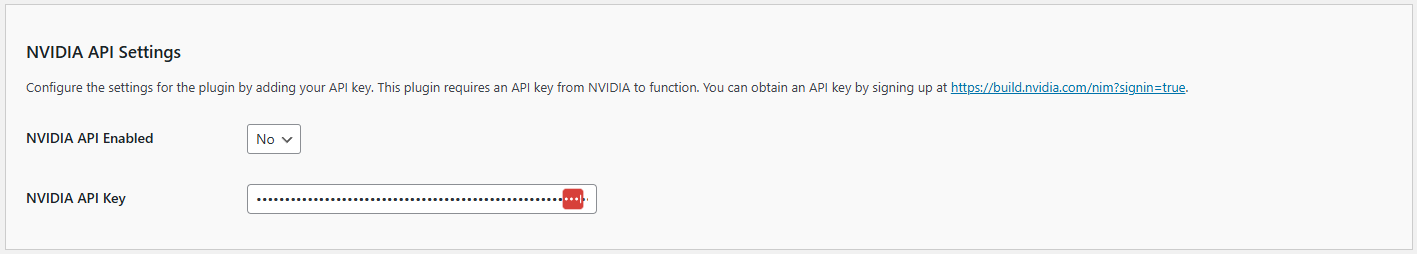
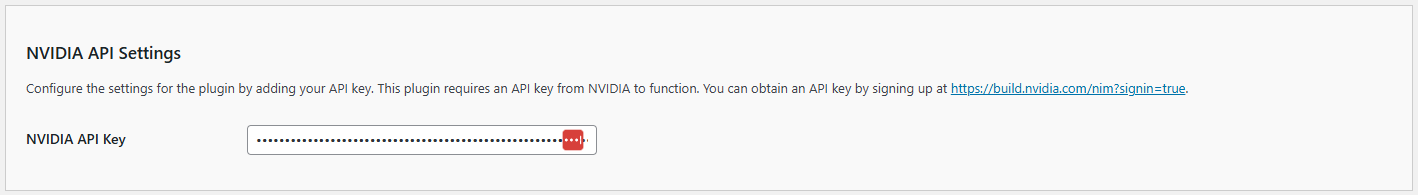
V 2.1.8 - Initial coding for NVIDIA AI options

diff --git a/includes/settings/chatbot-settings-api-nvidia.php b/includes/settings/chatbot-settings-api-nvidia.php
@@ -181,13 +181,13 @@ function chatbot_nvidia_api_settings_init() {
         'chatbot_nvidia_api_model_general'
     );
 
-    add_settings_field(
-        'chatbot_nvidia_api_enabled',
-        'NVIDIA API Enabled',
-        'chatbot_nvidia_api_enabled_callback',
-        'chatbot_nvidia_api_model_general',
-        'chatbot_nvidia_api_model_general_section'
-    );
+    // add_settings_field(
+    //     'chatbot_nvidia_api_enabled',
+    //     'NVIDIA API Enabled',
+    //     'chatbot_nvidia_api_enabled_callback',
+    //     'chatbot_nvidia_api_model_general',
+    //     'chatbot_nvidia_api_model_general_section'
+    // );
 
     add_settings_field(
         'chatbot_nvidia_api_key',
